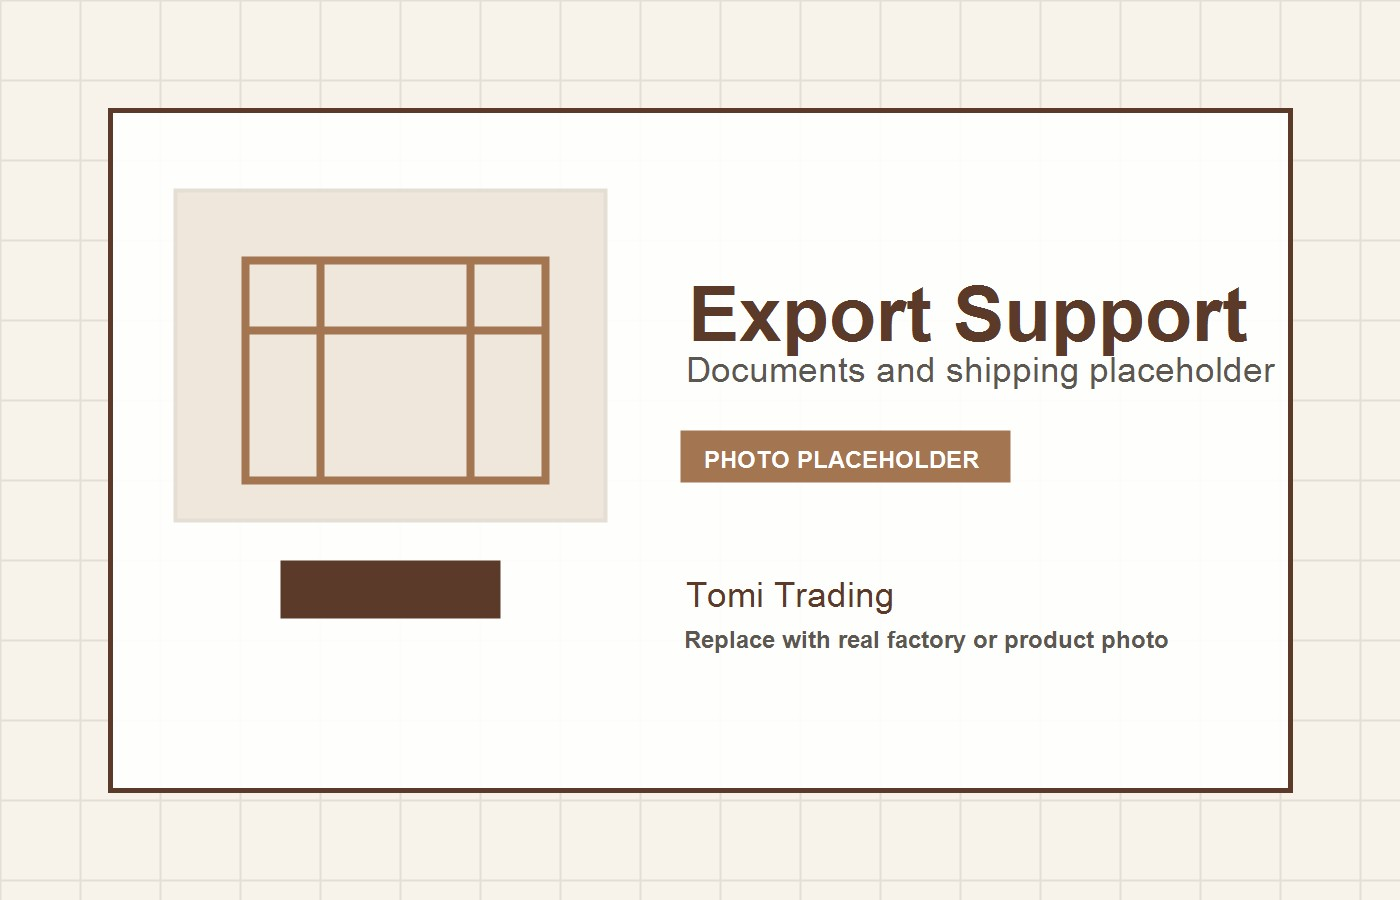
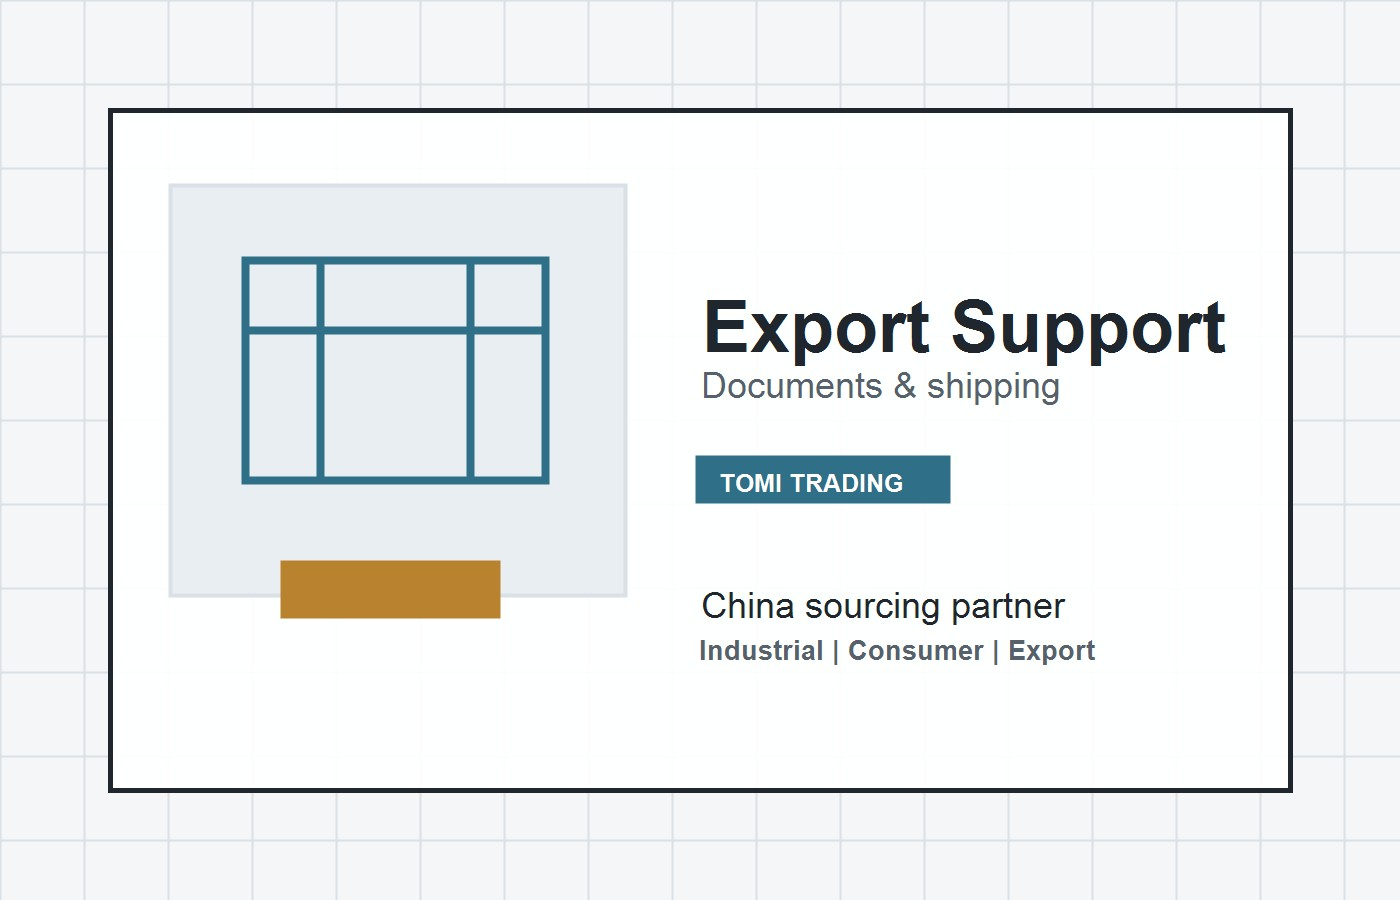
Refresh industrial visual tone

diff --git a/src/styles/global.css b/src/styles/global.css
@@ -1,13 +1,14 @@
 :root {
-  --color-primary: #5b3a29;
-  --color-accent: #a47551;
-  --color-background: #f7f2ea;
+  --color-primary: #20262d;
+  --color-accent: #2f6f88;
+  --color-background: #f4f6f7;
   --color-surface: #ffffff;
-  --color-text: #1f1f1f;
-  --color-muted: #5d5751;
-  --color-border: #e5ded4;
-  --color-soft: #efe7dc;
-  --shadow-soft: 0 18px 45px rgba(91, 58, 41, 0.08);
+  --color-text: #15191d;
+  --color-muted: #56616b;
+  --color-border: #d9e0e6;
+  --color-soft: #e9eef2;
+  --color-signal: #b9822f;
+  --shadow-soft: 0 18px 45px rgba(18, 31, 42, 0.1);
   --radius: 8px;
   --container: 1160px;
 }
@@ -140,7 +141,7 @@ p {
 }
 
 .button.primary {
-  background: var(--color-primary);
+  background: linear-gradient(135deg, #1a2229, #2a3842);
   color: #ffffff;
 }
 
@@ -151,7 +152,7 @@ p {
 }
 
 .button.bronze {
-  background: var(--color-accent);
+  background: linear-gradient(135deg, #2f6f88, #255a70);
   color: #ffffff;
 }
 
@@ -166,7 +167,7 @@ p {
   position: sticky;
   top: 0;
   z-index: 20;
-  background: rgba(247, 242, 234, 0.94);
+  background: rgba(244, 246, 247, 0.94);
   border-bottom: 1px solid var(--color-border);
   backdrop-filter: blur(14px);
 }
@@ -229,8 +230,8 @@ p {
   overflow: hidden;
   padding: 82px 0 88px;
   background:
-    linear-gradient(90deg, rgba(247, 242, 234, 0.98) 0%, rgba(247, 242, 234, 0.9) 52%, rgba(247, 242, 234, 0.68) 100%),
-    radial-gradient(circle at top right, rgba(164, 117, 81, 0.18), transparent 34%);
+    linear-gradient(90deg, rgba(244, 246, 247, 0.98) 0%, rgba(244, 246, 247, 0.92) 52%, rgba(244, 246, 247, 0.72) 100%),
+    radial-gradient(circle at top right, rgba(47, 111, 136, 0.18), transparent 34%);
 }
 
 .hero::before {
@@ -259,9 +260,9 @@ p {
 }
 
 .hero-panel {
-  border: 1px solid rgba(91, 58, 41, 0.16);
+  border: 1px solid rgba(32, 38, 45, 0.16);
   border-radius: var(--radius);
-  background: rgba(255, 255, 255, 0.82);
+  background: rgba(255, 255, 255, 0.9);
   box-shadow: var(--shadow-soft);
   overflow: hidden;
 }
@@ -297,8 +298,8 @@ p {
 
 .page-hero {
   background:
-    linear-gradient(90deg, rgba(247, 242, 234, 0.98), rgba(247, 242, 234, 0.82)),
-    radial-gradient(circle at 88% 20%, rgba(164, 117, 81, 0.16), transparent 28%);
+    linear-gradient(90deg, rgba(244, 246, 247, 0.98), rgba(244, 246, 247, 0.84)),
+    radial-gradient(circle at 88% 20%, rgba(47, 111, 136, 0.16), transparent 28%);
   border-bottom: 1px solid var(--color-border);
   padding: 72px 0;
 }
@@ -350,7 +351,7 @@ p {
   border: 1px solid var(--color-border);
   border-radius: var(--radius);
   background: var(--color-surface);
-  box-shadow: 0 8px 26px rgba(91, 58, 41, 0.045);
+  box-shadow: 0 8px 26px rgba(18, 31, 42, 0.055);
 }
 
 .service-card {
@@ -366,7 +367,7 @@ p {
 }
 
 .service-card:hover {
-  border-color: rgba(164, 117, 81, 0.5);
+  border-color: rgba(47, 111, 136, 0.48);
   box-shadow: var(--shadow-soft);
   transform: translateY(-2px);
 }
@@ -588,7 +589,7 @@ textarea {
 input:focus,
 select:focus,
 textarea:focus {
-  outline: 2px solid rgba(164, 117, 81, 0.28);
+  outline: 2px solid rgba(47, 111, 136, 0.26);
   border-color: var(--color-accent);
 }
 
@@ -609,7 +610,7 @@ textarea:focus {
 }
 
 .site-footer {
-  background: #2a211c;
+  background: #15191d;
   color: rgba(255, 255, 255, 0.78);
   padding: 52px 0 24px;
 }

diff --git a/src/data/site.ts b/src/data/site.ts
@@ -2,7 +2,7 @@ export const SITE = {
   brandName: "Tomi Trading",
   companyName: "Guangzhou Tomi Trading Co., Ltd.",
   domain: "tomitrading.com",
-  siteUrl: "https://tomitrading.com",
+  siteUrl: "https://www.tomitrading.com",
   email: "sales@tomitrading.com",
   whatsappDisplay: "+86 15817011257",
   whatsappUrl: "https://wa.me/8615817011257",
